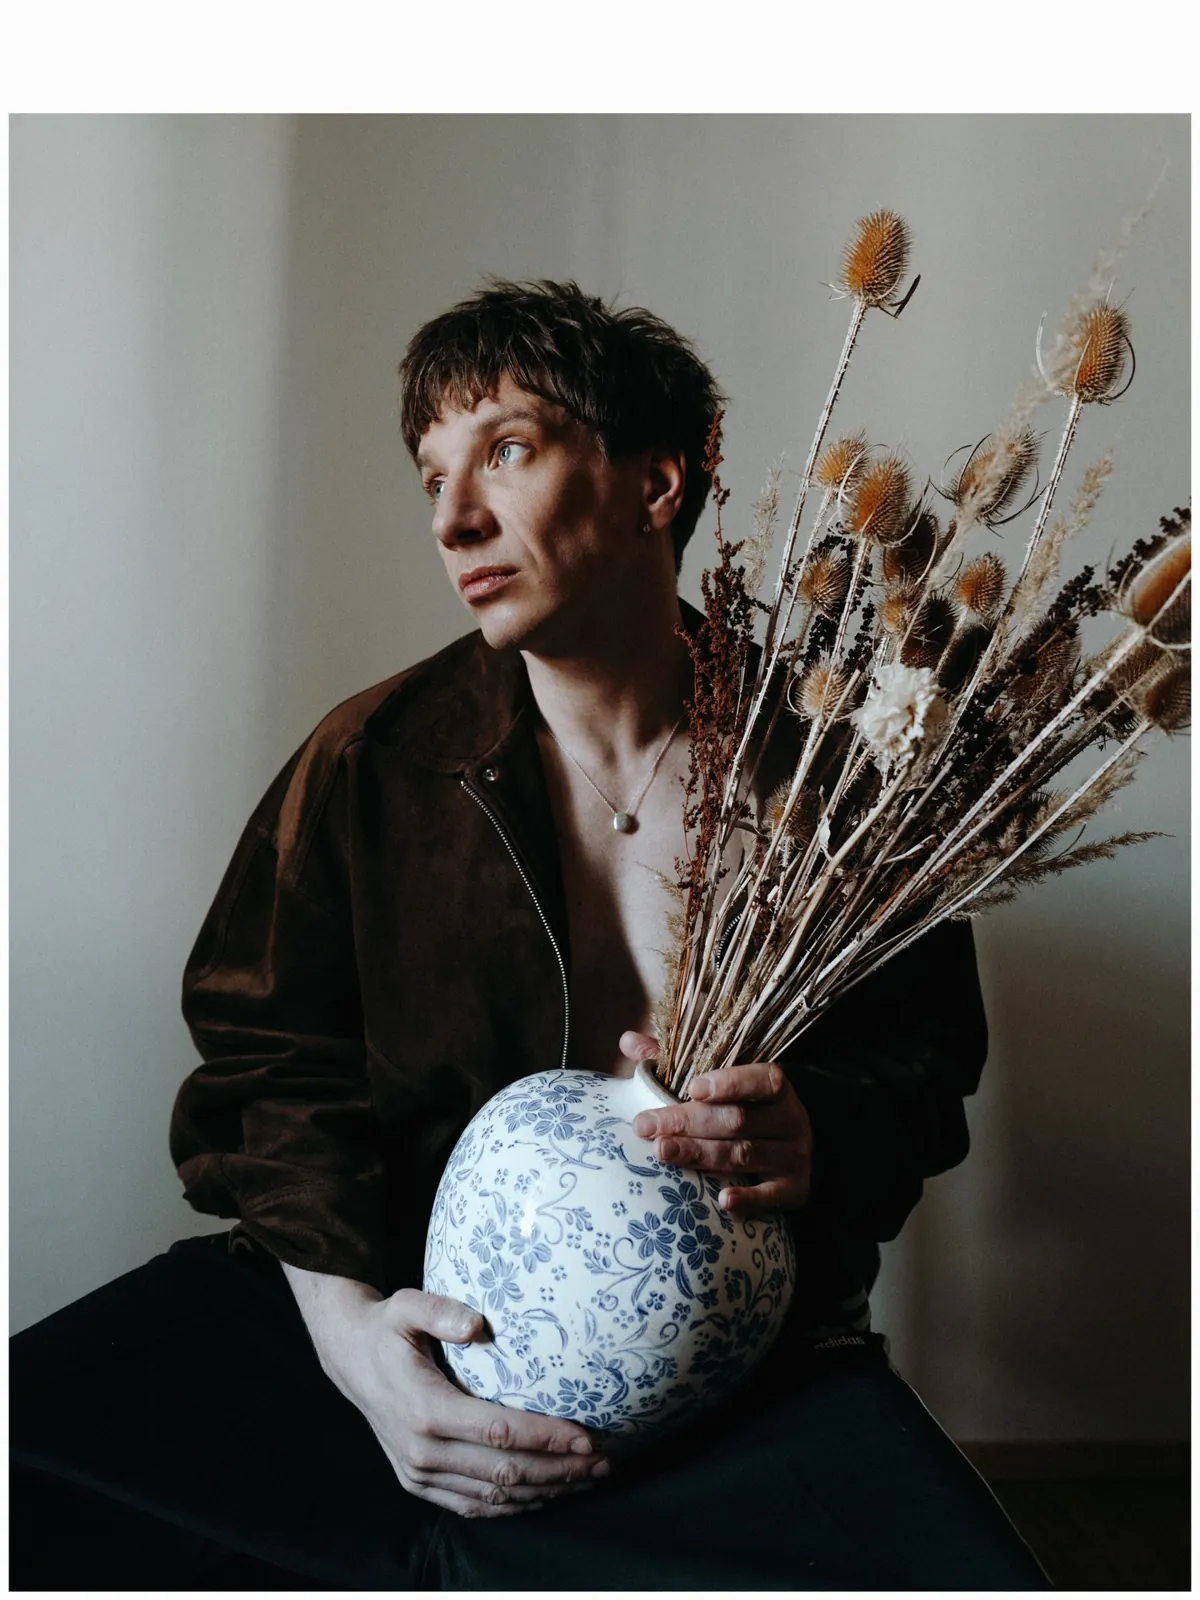
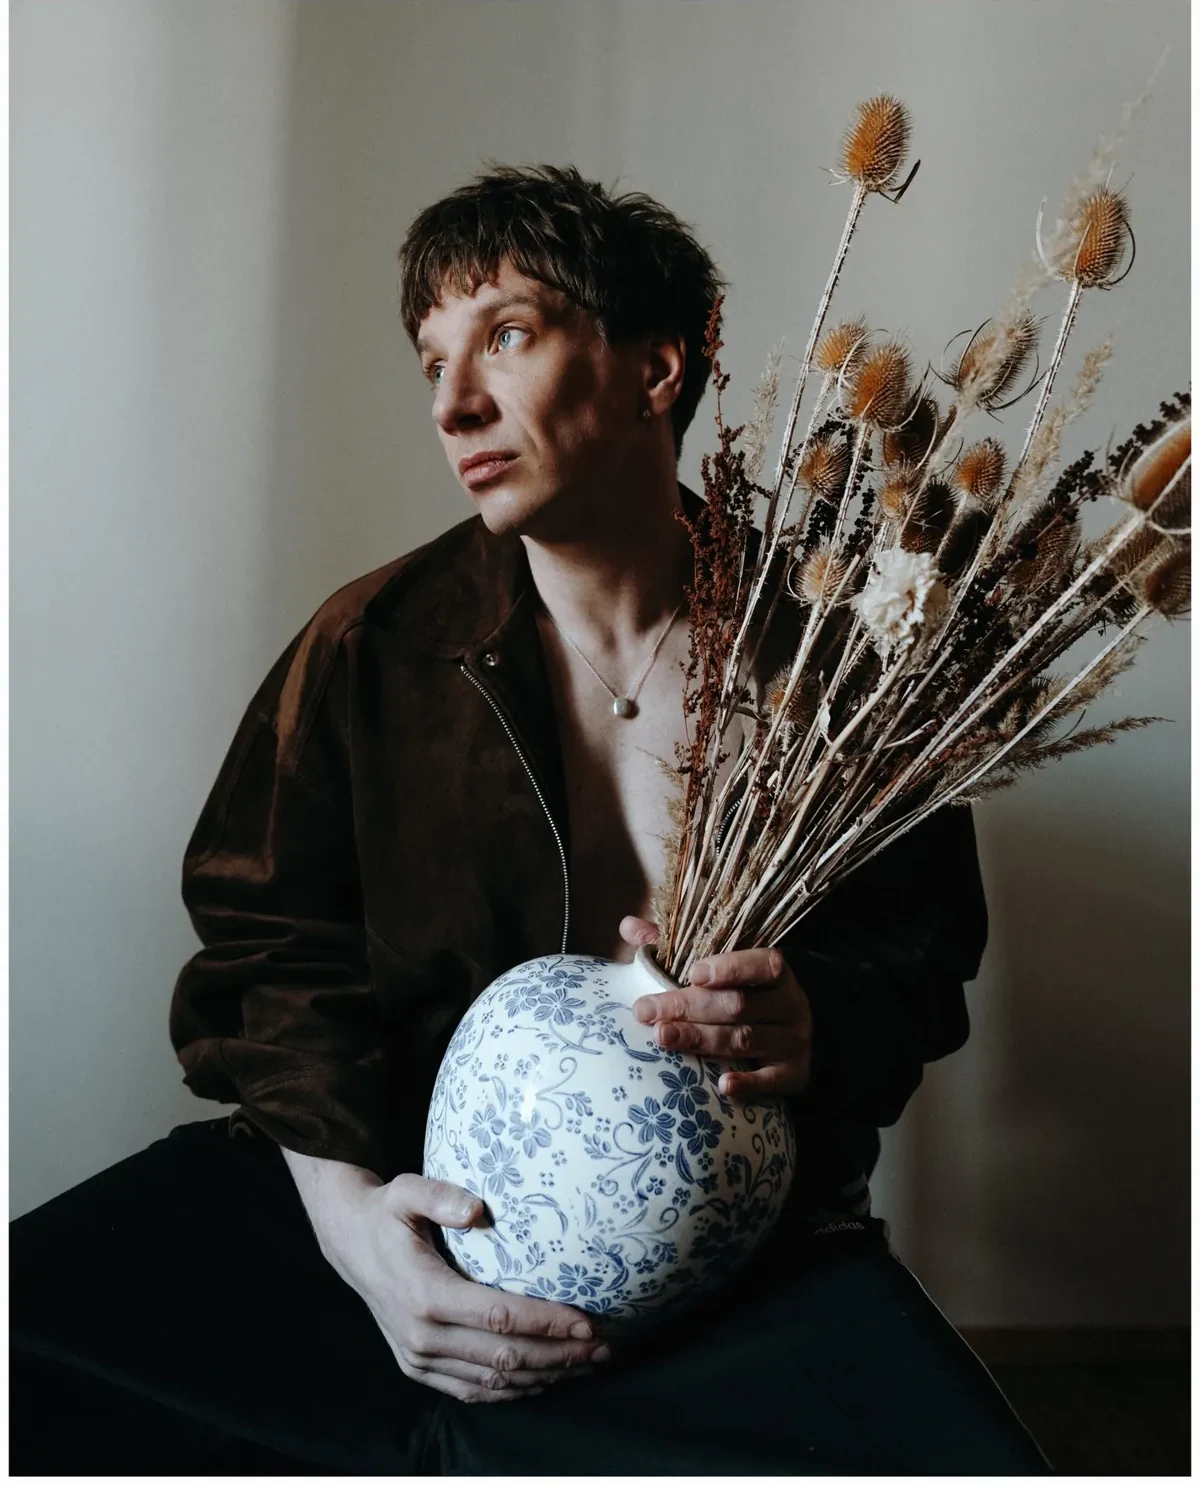
Что снимаю: вернули большой кадр + список; «обсудить» только у активной строки; портрет без белого поля

diff --git a/index.html b/index.html
@@ -148,41 +148,40 @@ img { display: block; }
 
 .kick { display: block; margin-bottom: 22px; color: var(--red); }
 
-/* ── 2½. что снимаю — тихо: пять колонок текста с тонкими линиями, как опись камер в «Сериях».
-   Не спорит с листом сверху и открыткой снизу: кадр появляется только при наведении — отпечаток выглядывает над колонкой,
-   в следующий раз уже другой кадр этой съёмки. «обсудить» — WhatsApp с готовым текстом. Цены — строкой в колонке, когда пришлёт Андрей */
-.svc { padding: 88px 36px 64px; } /* воздух до «Связи»: внизу не должно быть сплошной стены текста */
-.envs { list-style: none; display: grid; grid-template-columns: repeat(5, minmax(0, 1fr)); column-gap: 28px; }
-.env { position: relative; display: flex; flex-direction: column; padding: 14px 0 0; border-top: 1px solid #dcdad2; cursor: pointer; }
-.env .n { color: var(--red); }
-.env .name { display: block; margin-top: 10px; font: 500 clamp(18px, 1.6vw, 22px)/1.15 'Archivo', sans-serif; letter-spacing: -.02em; }
-.env .sub { display: block; margin-top: 6px; font-size: 13px; line-height: 1.45; color: var(--muted); }
-.env .sub a { color: var(--ink); border-bottom: 1px solid #c9c7bf; }
-.env .sub a:hover { border-color: var(--red); }
-/* «обсудить» — только у выбранной колонки, а не пять одинаковых подряд; кликается вся колонка */
-.env .ask { margin-top: auto; padding-top: 14px; align-self: flex-start; font-size: 14px; font-weight: 500; opacity: 0; transform: translateX(-6px); transition: opacity .25s ease, transform .25s ease; }
-.env:hover .ask, .env .ask:focus-visible { opacity: 1; transform: none; }
-.env .ask:hover { color: var(--red); }
-.envs:hover .env { color: #bcbab2; }
-.envs:hover .env:hover { color: var(--ink); }
-/* отпечаток выглядывает из-за линии, когда колонку выбирают */
-.env .print { position: absolute; left: 0; bottom: calc(100% + 10px); width: 120px; padding: 4px; background: #fff; box-shadow: 0 12px 26px -14px rgba(0,0,0,.45); pointer-events: none; opacity: 0; transform: translateY(14px) rotate(-2deg); transition: opacity .3s ease, transform .45s cubic-bezier(.3,.8,.25,1); }
-.env .print img { display: block; width: 100%; aspect-ratio: 4 / 5; object-fit: cover; background: #e6e4dc; }
-.env:hover .print { opacity: 1; transform: none; }
-.clients { margin-top: 44px; max-width: 980px; font-size: 14px; line-height: 1.8; color: var(--muted); }
+/* ── 2½. что снимаю — противоположность листу: там много мелких кадров, здесь один крупный.
+   Наведение на строку меняет кадр (повторное — следующий кадр этой съёмки); «обсудить» — WhatsApp с готовым текстом.
+   Цены появятся рядом, когда их пришлёт Андрей */
+.svc { display: grid; grid-template-columns: minmax(0, 4fr) minmax(0, 8fr); gap: 0 56px; align-items: start; padding: 88px 36px 64px; } /* воздух до «Связи» */
+.svc-fig { position: sticky; top: 24px; margin: 0; }
+.svc-fig .pic { position: relative; aspect-ratio: 4 / 5; overflow: hidden; background: #e6e4dc; }
+.svc-fig img { position: absolute; inset: 0; width: 100%; height: 100%; object-fit: cover; opacity: 0; transition: opacity .5s ease, transform 1.2s ease; transform: scale(1.03); }
+.svc-fig img.on { opacity: 1; transform: none; }
+.svc-fig figcaption { margin-top: 10px; color: var(--muted); }
+.svc ol { list-style: none; border-bottom: 1px solid #dcdad2; }
+.svc li { display: grid; grid-template-columns: 44px minmax(0, 1fr) auto; align-items: baseline; gap: 16px; padding: 18px 0; border-top: 1px solid #dcdad2; cursor: pointer; transition: color .25s; }
+.svc .n { color: var(--red); }
+.svc .name { display: block; font: 500 clamp(22px, 2.6vw, 36px)/1.1 'Archivo', sans-serif; letter-spacing: -.03em; }
+.svc .sub { display: block; margin-top: 6px; font-size: 14px; color: var(--muted); }
+.svc .sub a { color: var(--ink); border-bottom: 1px solid #c9c7bf; transition: border-color .2s; }
+.svc .sub a:hover { border-color: var(--red); }
+.svc li > img { display: none; }
+/* «обсудить» — только у выбранной строки, а не пять одинаковых подряд; кликается вся строка */
+.svc .ask { white-space: nowrap; font-size: 14px; color: var(--ink); opacity: 0; transform: translateX(-6px); transition: opacity .25s ease, transform .25s ease; }
+.svc li.on .ask, .svc .ask:focus-visible { opacity: 1; transform: none; }
+.svc .ask:hover { color: var(--red); }
+.svc li { color: #bcbab2; }
+.svc li.on { color: var(--ink); }
+.clients { margin-top: 24px; font-size: 14px; line-height: 1.8; color: var(--muted); }
 .clients b { font-weight: 400; color: var(--ink); }
 .clients b span { white-space: nowrap; }
-@media (hover: none) { .env .print { display: none; } .envs:hover .env { color: inherit; } }
-@media (max-width: 1100px) and (min-width: 721px) { .envs { grid-template-columns: repeat(3, minmax(0, 1fr)); row-gap: 28px; } }
-/* на телефоне — строки одна под другой */
+/* на телефоне большой кадр не помещается рядом — у каждой строки свой широкий кадр */
 @media (max-width: 720px) {
-  .svc { padding: 64px 16px 0; }
-  .envs { grid-template-columns: minmax(0, 1fr); }
-  .env { display: grid; grid-template-columns: 28px minmax(0, 1fr) auto; column-gap: 10px; align-items: baseline; padding: 14px 0 16px; }
-  .env .name { margin-top: 0; grid-column: 2; }
-  .env .sub { grid-column: 2; }
-  .env .ask { grid-column: 3; grid-row: 1; padding-top: 0; color: var(--red); opacity: 1; transform: none; }
-  .env .ask .w { display: none; } /* на телефоне — только стрелка */
+  .svc { grid-template-columns: minmax(0, 1fr); padding: 64px 16px 0; }
+  .svc-fig { display: none; }
+  .svc li { grid-template-columns: 28px minmax(0, 1fr) auto; gap: 12px; padding: 16px 0 20px; color: var(--ink); }
+  .svc .ask { opacity: 1; transform: none; color: var(--red); }
+  .svc .ask .w { display: none; } /* на телефоне — только стрелка */
+  .svc li > img { display: block; grid-column: 1 / -1; width: 100%; aspect-ratio: 4 / 3; object-fit: cover; object-position: 50% 30%; margin-top: 4px; }
 }
 
 /* ── 3. связь ── */
@@ -317,9 +316,12 @@ footer { padding: 0 36px 32px; display: flex; justify-content: space-between; co
 </section>
 
 <section class="svc" id="services">
-  <span class="kick mono">Что снимаю</span>
-  <ul class="envs" id="svc"></ul>
-  <p class="clients">Снимал для: <b><span>LIBERTY Dance Studio</span> · <span>Elefunk</span> · <span>High Heels Convention</span> · <span>EXO BALL</span> · <span>спектакль «СЕМЬ»</span> · <span>The Sun Line</span> · <span>учебный театр школы-студии МХАТ</span></b></p>
+  <figure class="svc-fig" id="svc-fig" aria-hidden="true"><div class="pic"><img alt=""><img alt=""></div><figcaption class="mono"></figcaption></figure>
+  <div>
+    <span class="kick mono">Что снимаю</span>
+    <ol id="svc"></ol>
+    <p class="clients">Снимал для: <b><span>LIBERTY Dance Studio</span> · <span>Elefunk</span> · <span>High Heels Convention</span> · <span>EXO BALL</span> · <span>спектакль «СЕМЬ»</span> · <span>The Sun Line</span> · <span>учебный театр школы-студии МХАТ</span></b></p>
+  </div>
 </section>
 
 <section class="contact" id="contact">
@@ -696,36 +698,49 @@ footer { padding: 0 36px 32px; display: flex; justify-content: space-between; co
   document.addEventListener('keydown', function (e) { if (e.key === 'Escape') loupe.classList.remove('open'); });
 
   /* ── что снимаю ── */
-  // [название, что входит, тема для сообщения, кадры этой съёмки]
+  // [название, что внутри, тема для сообщения, кадры этой съёмки — первый показывается сразу, кадр для телефона, если первый не режется в ширину]
   var svc = [
-    ['Театрам', 'спектакль, закулисье, портреты труппы, афиши', 'спектакль', ['DeH4WYNEfpe_1', 'DW38O6lCMO7_1', 'DIi8BKLCVoA_1', 'C9xIt8UiAcG_1']],
+    ['Театрам', 'спектакль, закулисье, портреты труппы, афиши', 'спектакль', ['DIi8BKLCVoA_1', 'DW38O6lCMO7_1', 'DeH4WYNEfpe_1', 'C9xIt8UiAcG_1'], 'DeH4WYNEfpe_1'],
     ['Танцевальным студиям', 'отчётные концерты, фестивали, конвенции', 'танцевальный концерт', ['DRC4YNqCLQN_12', 'C9XN2W_C1Uv_6', 'DKw7BV_iZTV_11', 'DKw7BV_iZTV_15']],
-    ['Организаторам', 'эксперимент, сцена, закулисье — <a href="series.html#exoball">один вечер, три отчёта</a>', 'мероприятие', ['DPltYHpCNgY_3', 'DPs38vSiK68_2', 'DPi5nVqiHtc_1']],
-    ['Плёночная прогулка', 'медленно, на плёнку, вне цифрового шума', 'плёночная фотопрогулка', ['DOmDKomiGIy_1', 'DQbqPoiiC81_1']],
+    ['Организаторам', '<a href="series.html#exoball">один вечер — три отчёта</a>: эксперимент, сцена, закулисье', 'мероприятие', ['DPltYHpCNgY_3', 'DPs38vSiK68_2', 'DPi5nVqiHtc_1']],
+    ['Плёночная фотопрогулка', 'медленно, на плёнку, вне цифрового шума', 'плёночная фотопрогулка', ['DOmDKomiGIy_1', 'DQbqPoiiC81_1']],
     ['Портрет', 'в студии и на улице', 'портрет', ['DX9mvH_EUNE_9', 'DX9mvH_EUNE_3']]
   ];
   var svcEl = document.getElementById('svc');
   svcEl.innerHTML = svc.map(function (s, i) {
     var text = 'Здравствуйте, Андрей! Хочу обсудить съёмку: ' + s[2] + '.';
-    return '<li class="env" data-i="' + i + '"><span class="n mono">0' + (i + 1) + '</span>' +
-      '<div class="print" aria-hidden="true"><img src="' + thumb(s[3][0]) + '" alt="" loading="lazy"></div>' +
-      '<span class="name">' + s[0] + '</span><span class="sub">' + s[1] + '</span>' +
-      '<a class="ask scrib" href="' + WA + '?text=' + encodeURIComponent(text) + '" target="_blank" rel="noopener"><span class="w">обсудить </span>→</a></li>';
+    return '<li data-i="' + i + '"><span class="n mono">' + ('0' + (i + 1)).slice(-2) + '</span>' +
+      '<span><span class="name">' + s[0] + '</span><span class="sub">' + s[1] + '</span></span>' +
+      '<a class="ask scrib" href="' + WA + '?text=' + encodeURIComponent(text) + '" target="_blank" rel="noopener"><span class="w">обсудить </span>→</a>' +
+      '<img src="' + full(s[4] || s[3][0]) + '" alt="" loading="lazy"></li>';
   }).join('');
-  // отпечаток спрятался — в следующий раз выглянет другой кадр этой съёмки
-  var svcAt = svc.map(function () { return 0; });
-  svcEl.querySelectorAll('.env').forEach(function (env) {
-    // вся колонка ведёт в WhatsApp; ссылка на кейс внутри — сама по себе
-    env.addEventListener('click', function (e) {
-      if (e.target.closest('a')) return;
-      window.open(env.querySelector('.ask').href, '_blank', 'noopener');
-    });
-    env.addEventListener('mouseleave', function () {
-      var i = +env.dataset.i, list = svc[i][3];
-      svcAt[i] = (svcAt[i] + 1) % list.length;
-      setTimeout(function () { env.querySelector('.print img').src = thumb(list[svcAt[i]]); }, 350);
-    });
+  // большой кадр: два слоя, новый проявляется поверх старого
+  var fig = document.getElementById('svc-fig'), figImgs = fig.querySelectorAll('img'), figCap = fig.querySelector('figcaption');
+  var rows = svcEl.querySelectorAll('li'), svcAt = svc.map(function () { return 0; }), svcCur = -1, layer = 0;
+  function svcShow(i) {
+    if (i === svcCur) svcAt[i] = (svcAt[i] + 1) % svc[i][3].length; // снова на ту же строку — следующий кадр
+    svcCur = i;
+    var next = figImgs[layer = 1 - layer];
+    next.src = full(svc[i][3][svcAt[i]]);
+    next.classList.add('on'); figImgs[1 - layer].classList.remove('on');
+    figCap.textContent = ('0' + (i + 1)).slice(-2) + ' · ' + svc[i][0];
+    rows.forEach(function (r, k) { r.classList.toggle('on', k === i); });
+    new Image().src = full(svc[i][3][(svcAt[i] + 1) % svc[i][3].length]);
+  }
+  svcShow(0);
+  var svcLast = null;
+  svcEl.addEventListener('pointerover', function (e) {
+    var li = e.target.closest('li'); if (!li || li === svcLast) return;
+    svcLast = li; svcShow(+li.dataset.i);
   });
+  svcEl.addEventListener('pointerleave', function () { svcLast = null; });
+  // вся строка ведёт в WhatsApp; ссылка на кейс внутри — сама по себе
+  svcEl.addEventListener('click', function (e) {
+    var li = e.target.closest('li'); if (!li || e.target.closest('a')) return;
+    window.open(li.querySelector('.ask').href, '_blank', 'noopener');
+  });
+  // первые кадры подгружаем заранее, чтобы при наведении не было пустоты
+  addEventListener('load', function () { svc.forEach(function (s) { new Image().src = full(s[3][0]); }); });
 })();
 </script>
 </body>
